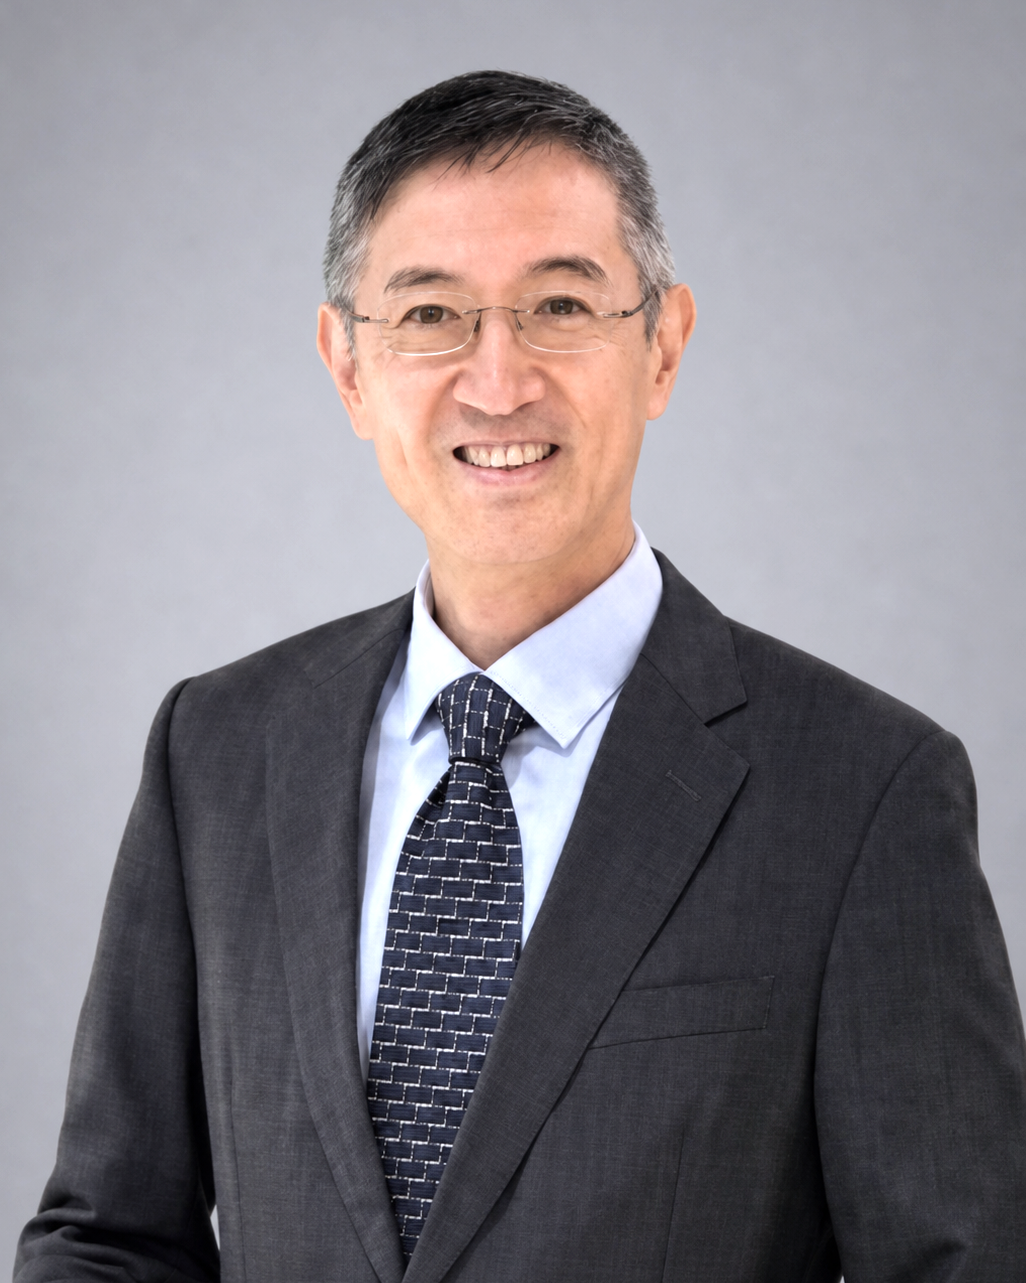
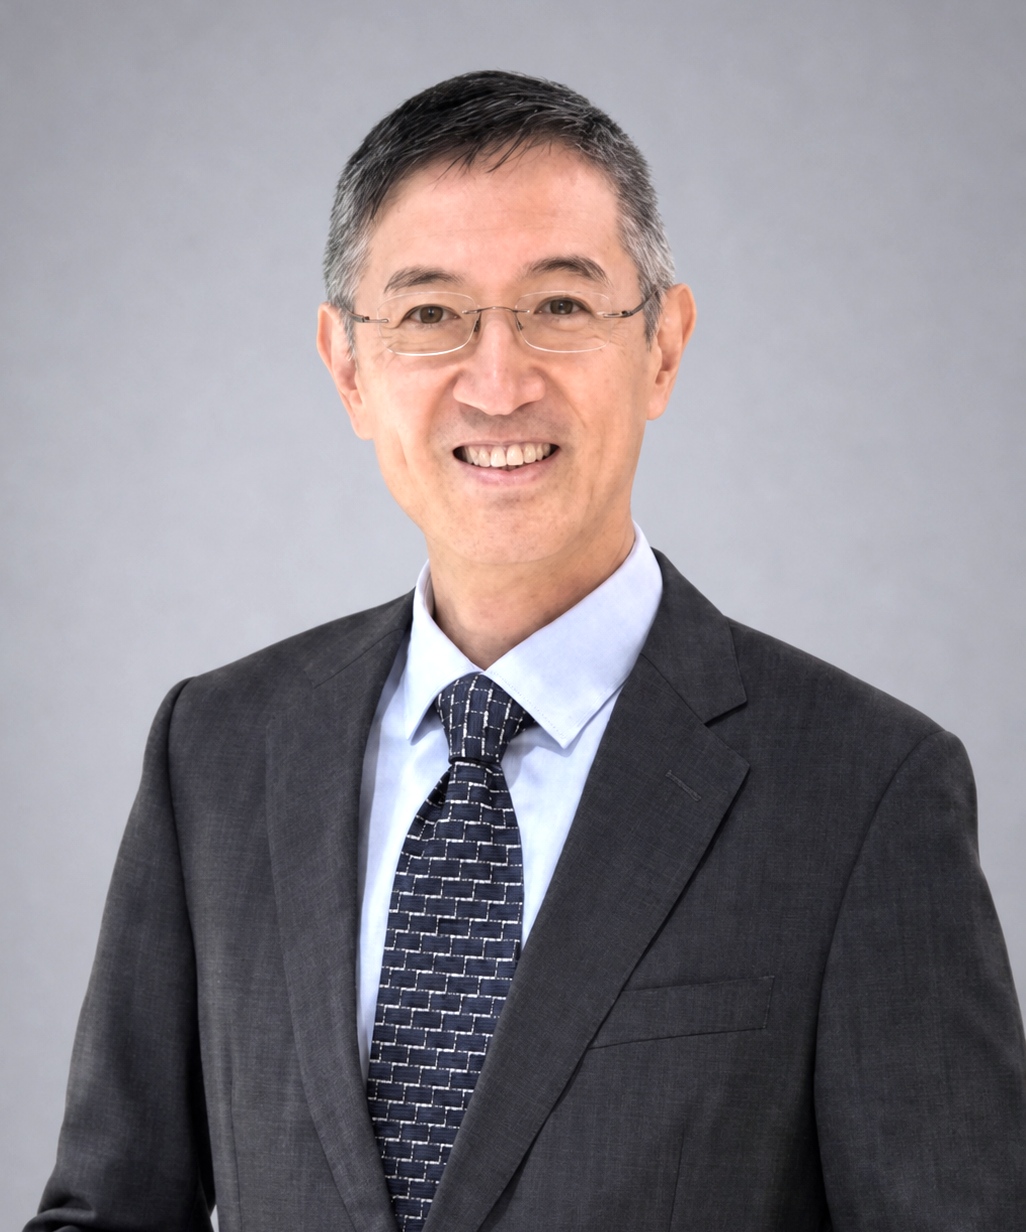
Fix team card alignment and update Kelvin photo
- Add whiteSpace: nowrap to role titles for single-line display
- Add minHeight to years stat container for consistent tag alignment
- Update Kelvin profile photo

diff --git a/src/app/i18n.ts b/src/app/i18n.ts
@@ -181,6 +181,7 @@ const en = {
         role: "Senior Advisor",
         yearsValue: "30+",
         yearsLabel: "YEARS AT HKEX",
+
         expertise: ["Exchange Compliance", "Market Surveillance", "Regulatory Inspections"],
         languages: "English · Cantonese · Putonghua",
         bio: [
@@ -194,6 +195,7 @@ const en = {
         role: "Compliance Consultant",
         yearsValue: "5+",
         yearsLabel: "YEARS OF LEGAL TRAINING",
+
         expertise: ["Regulatory Research", "Capital Markets Compliance", "Legal Document Drafting"],
         languages: "English · Cantonese · Putonghua",
         bio: [
@@ -450,6 +452,7 @@ const zh: typeof en = {
         role: "资深顾问",
         yearsValue: "30+",
         yearsLabel: "年港交所经验",
+
         expertise: ["交易所合规", "市场监察", "现场审查"],
         languages: "英语 · 粤语 · 普通话",
         bio: [
@@ -463,6 +466,7 @@ const zh: typeof en = {
         role: "合规顾问",
         yearsValue: "5+",
         yearsLabel: "年法律专业培训",
+
         expertise: ["监管研究", "资本市场合规", "法律文件撰写"],
         languages: "英语 · 粤语 · 普通话",
         bio: [

diff --git a/src/app/components/Team.tsx b/src/app/components/Team.tsx
@@ -260,6 +260,7 @@ export function Team() {
                       fontSize: "15px",
                       letterSpacing: "0.14em",
                       marginTop: "3px",
+                      whiteSpace: "nowrap",
                     }}
                   >
                     {member.role.toUpperCase()}
@@ -272,7 +273,7 @@ export function Team() {
                 <div style={{ height: "1px", background: "rgba(125,191,164,0.12)" }} className="mb-5" />
 
                 {/* Years stat */}
-                <div className="mb-5">
+                <div className="mb-5" style={{ minHeight: "82px" }}>
                   <div
                     style={{
                       fontSize: "34px",
